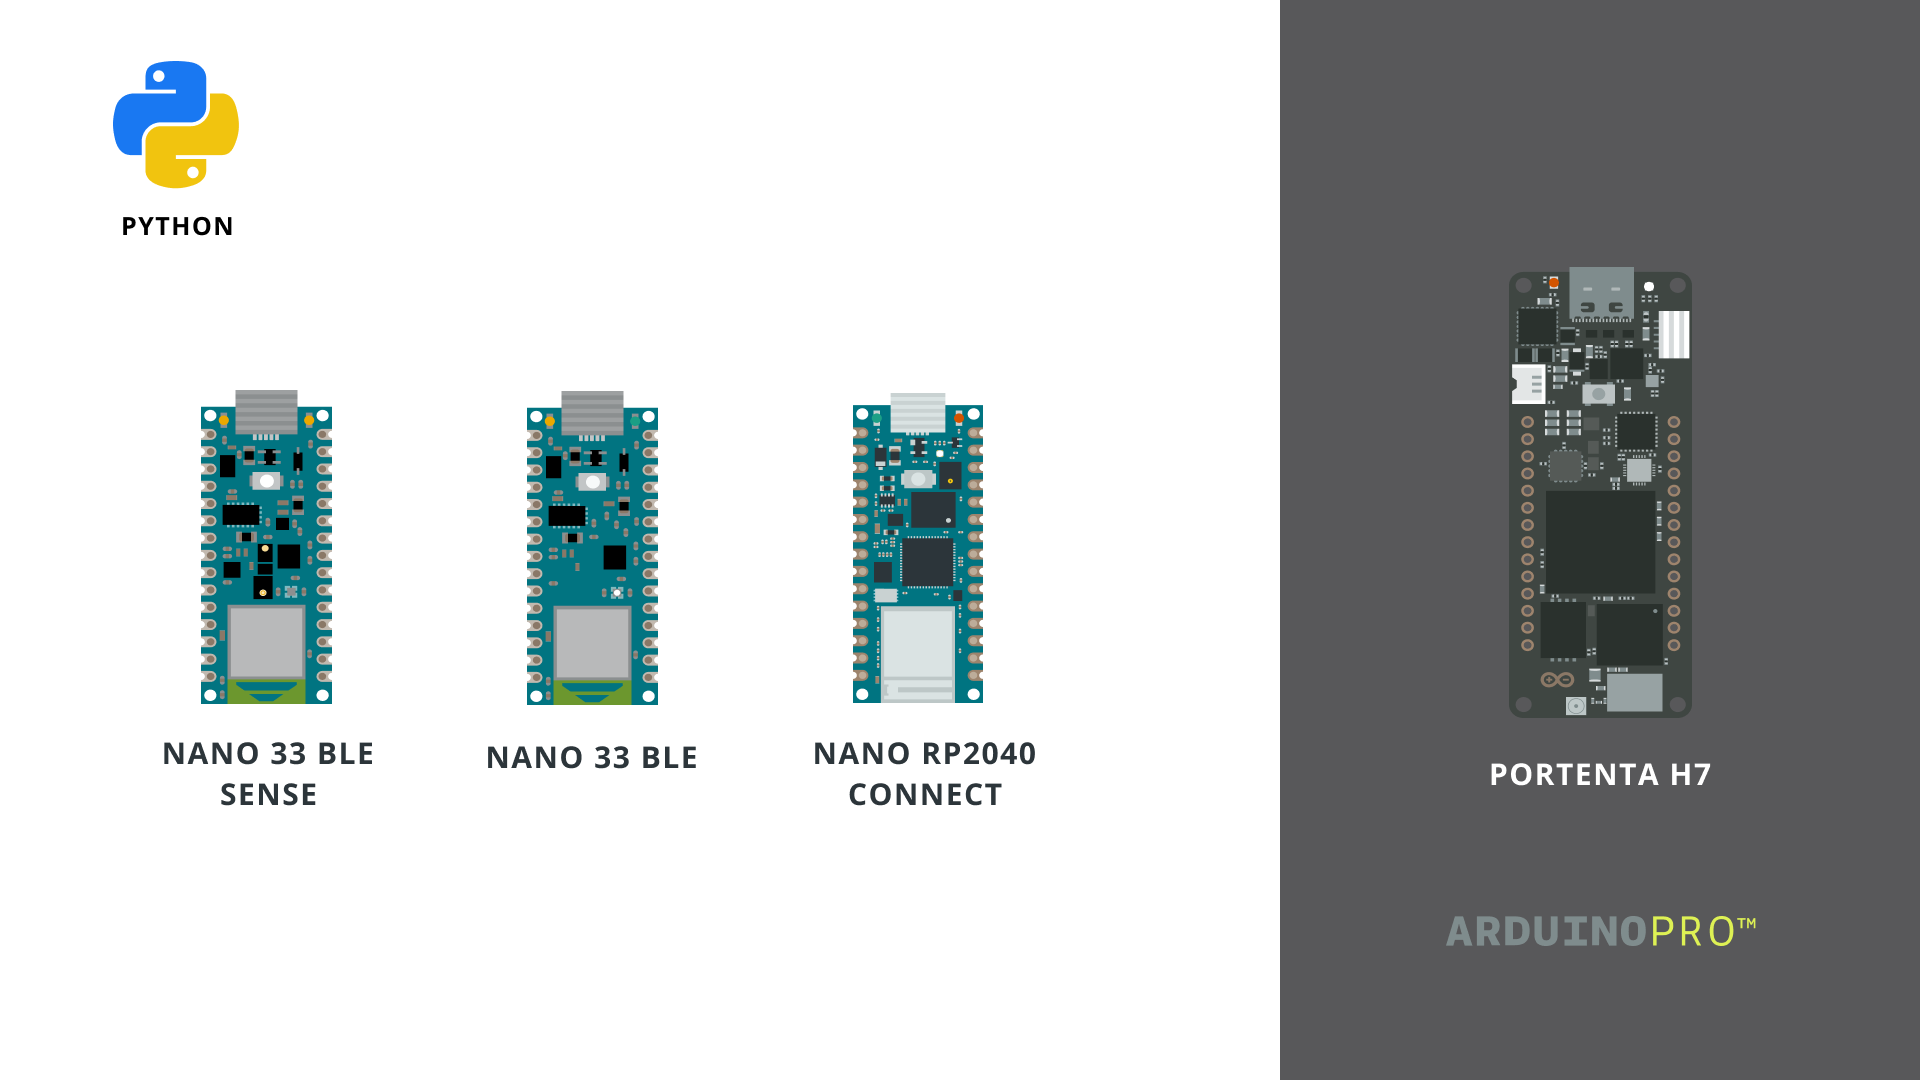
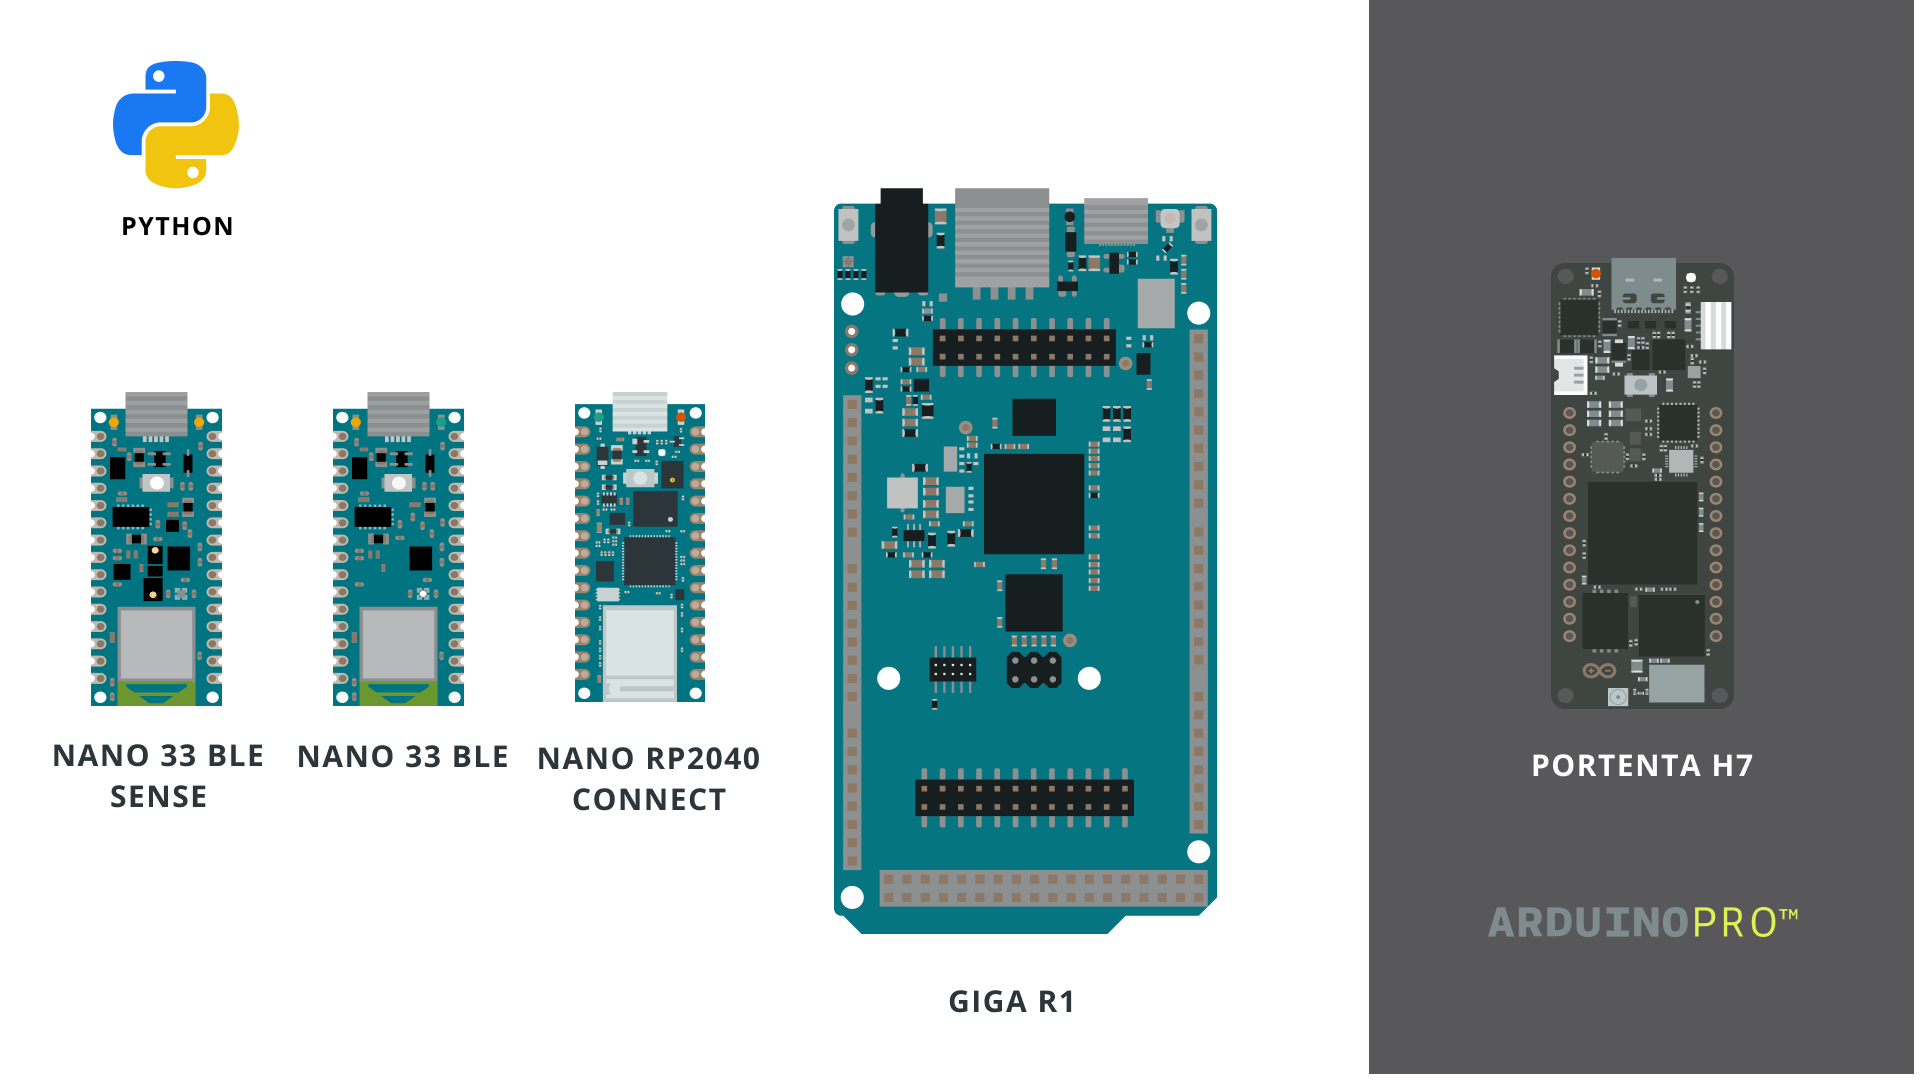
Add GIGA into list and image

diff --git a/content/learn/03.programming/05.arduino-and-python/arduino-and-python.md b/content/learn/03.programming/05.arduino-and-python/arduino-and-python.md
@@ -65,14 +65,15 @@ Further down this article, you can find a lot of useful code examples that will 
 
 ## Compatible Boards
 
-There are currently **four Arduino boards that officially supports MicroPython.** They are listed below:
+There are currently **five Arduino boards that officially supports MicroPython.** They are listed below:
 
 - [Nano 33 BLE](https://store.arduino.cc/arduino-nano-33-ble)
 - [Nano 33 BLE Sense](https://store.arduino.cc/arduino-nano-33-ble-sense)
 - [Nano RP2040 Connect](https://store.arduino.cc/nano-rp2040-connect-with-headers)
+- [GIGA R1 WiFi](https://store.arduino.cc/products/giga-r1-wifi)
 - [Portenta H7](https://store.arduino.cc/portenta-h7)
 
-All of above are also compatible with the **OpenMV IDE.**
+All of above are also compatible with the **OpenMV IDE**, with the exception of the GIGA R1.
 
 ### Nano 33 BLE
 
